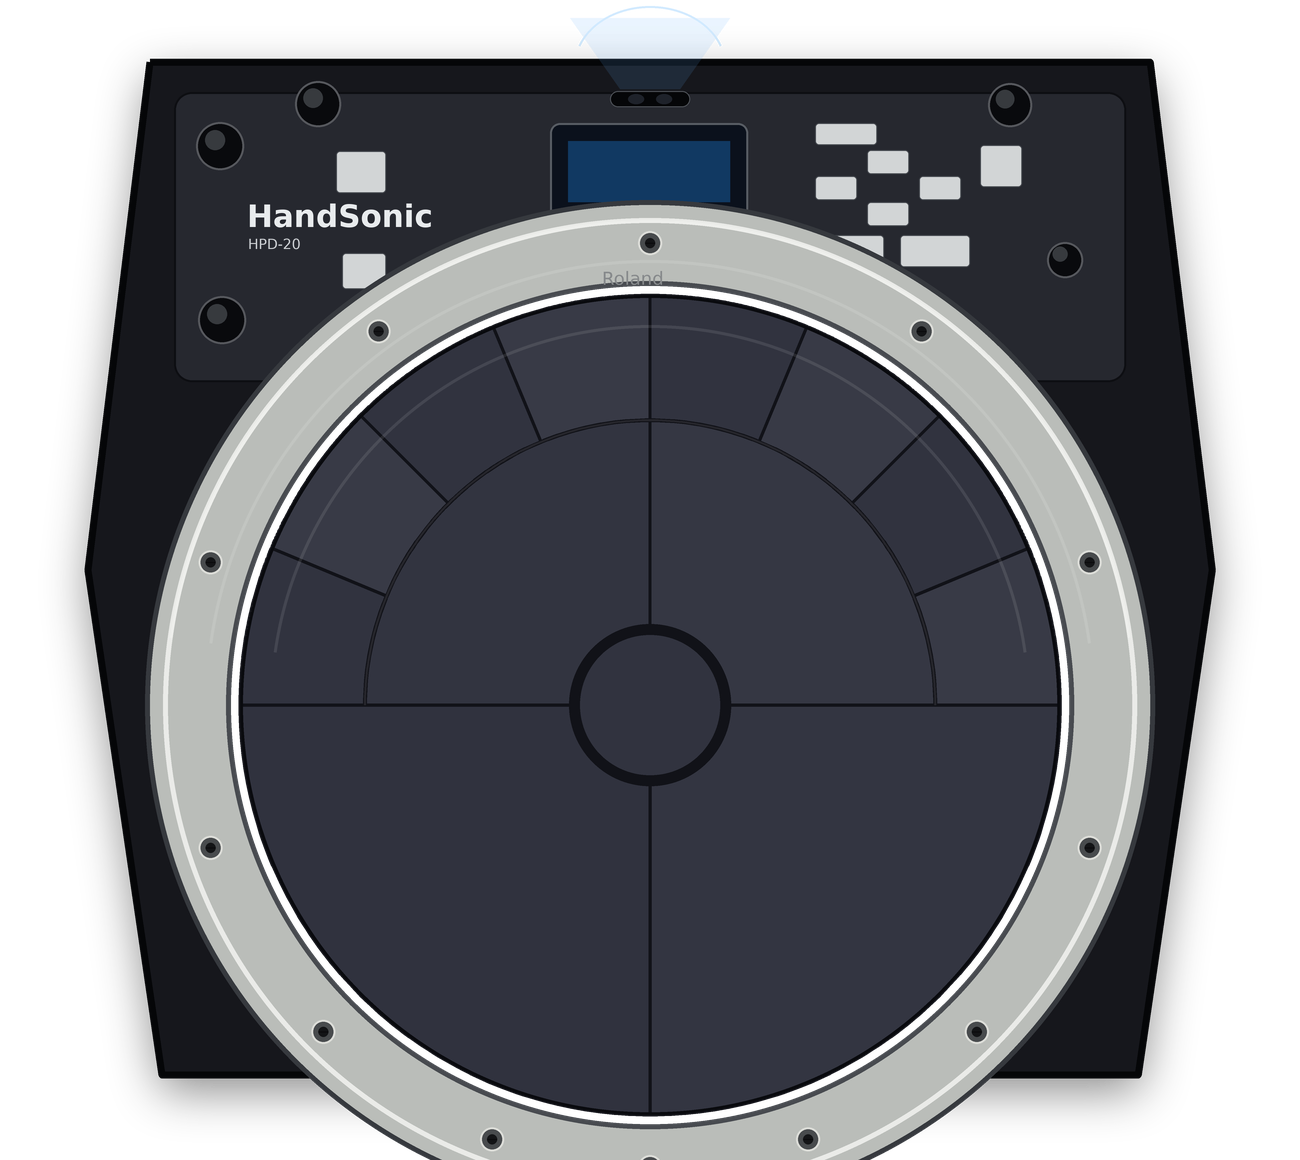
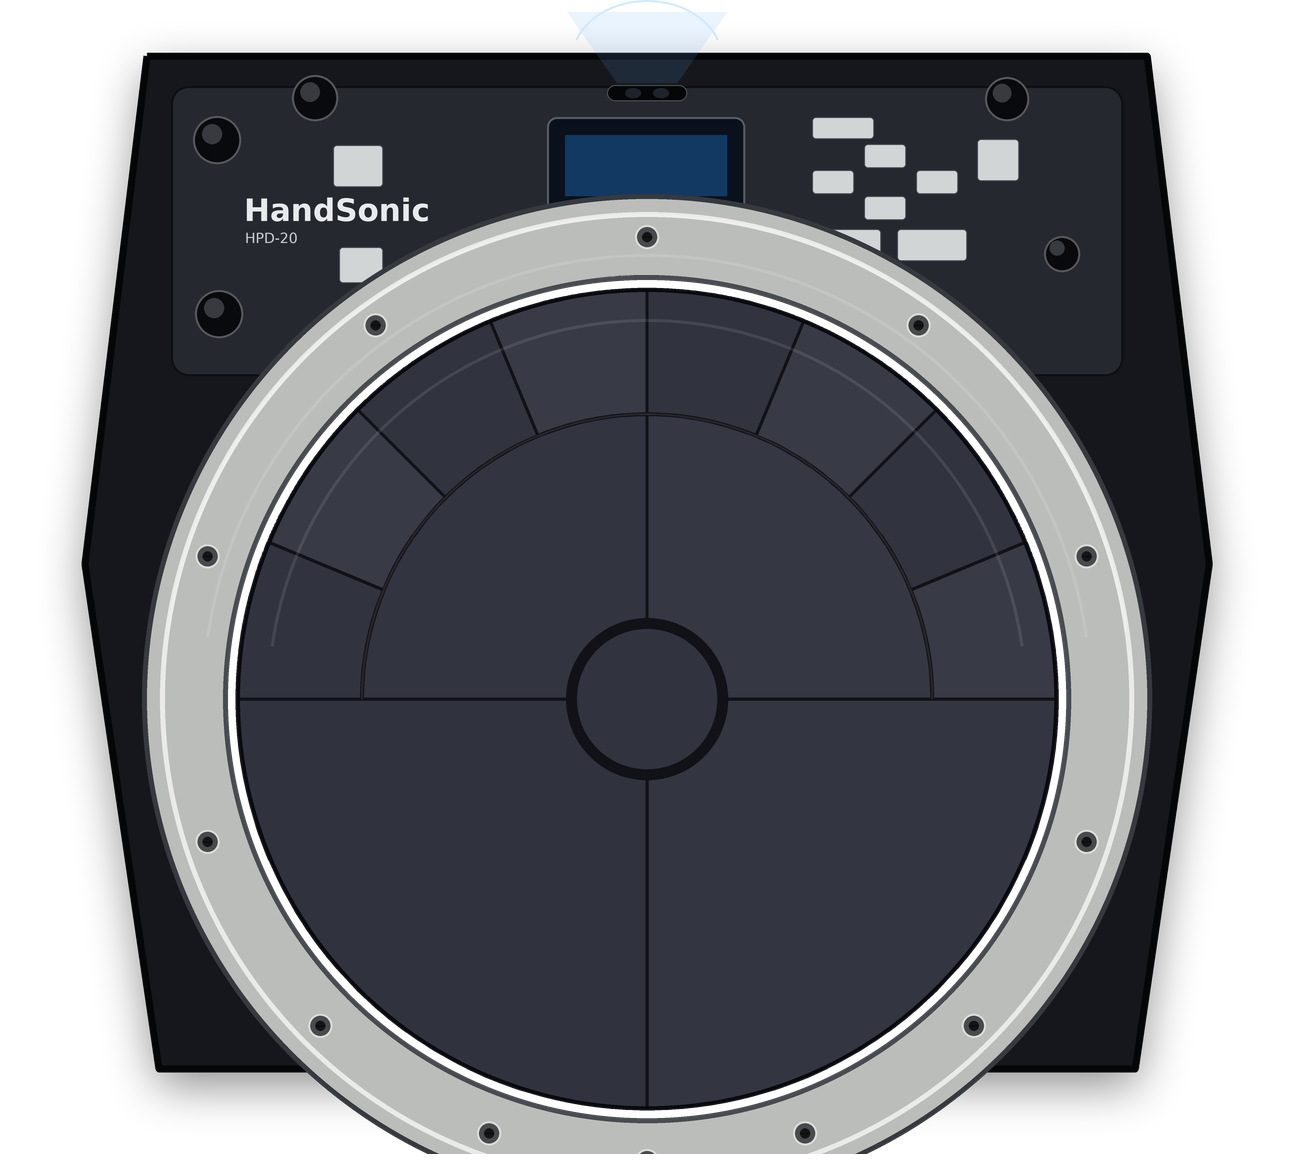
Pad-Geometrie an korrigiertes Artwork angepasst
Neue Hintergrundgrafik (ohne Pad-Beschriftung). Dial-Mitte, M/S-Grenze und
Spielflächen-Radius per Bilderkennung neu vermessen (Mitte ≈647,654;
R_INNER 337; R_OUTER 380; M5 72) statt der zu tiefen/zu großen alten Werte.
S-Pad-Beschriftung kleiner & einzeilig, da das S-Ring-Band schmaler ist.

diff --git a/app/src/ui/PadSurface.tsx b/app/src/ui/PadSurface.tsx
@@ -49,12 +49,16 @@ export function PadSurface({
           const sel = selectedPad === p.index;
           const cls = `zone ${sel ? "zone-sel" : ""}`;
           const { a, b, empty } = labelFor(p.index);
-          const aLines = nameLines(a);
-          const lines: { text: string; b?: boolean }[] = aLines.map((t) => ({
-            text: t,
-          }));
-          if (b) lines.push({ text: "＋ " + trunc(b), b: true });
-          const startDy = -((lines.length - 1) * 12);
+          const isS = p.index >= 5 && p.index <= 12; // small sub-pads => thin ring
+
+          // Small S-pads: one short, single-line label (band is narrow).
+          // Large M-pads: A name (wrapped) plus the B layer line.
+          const lines: { text: string; b?: boolean }[] = isS
+            ? [{ text: empty ? a : trunc(a, 11) }]
+            : nameLines(a).map((t) => ({ text: t }));
+          if (!isS && b) lines.push({ text: "＋ " + trunc(b), b: true });
+          const dyStep = isS ? 16 : 24;
+          const startDy = -((lines.length - 1) * (isS ? 8 : 12));
           return (
             <g
               key={p.index}
@@ -67,7 +71,7 @@ export function PadSurface({
                 <circle className={cls} cx={p.cx} cy={p.cy} r={p.r} />
               )}
               <text
-                className={`zone-label ${empty ? "zone-empty" : ""}`}
+                className={`zone-label ${isS ? "zone-label-s" : ""} ${empty ? "zone-empty" : ""}`}
                 x={p.labelX}
                 y={p.labelY}
                 textAnchor="middle"
@@ -76,7 +80,7 @@ export function PadSurface({
                   <tspan
                     key={i}
                     x={p.labelX}
-                    dy={i === 0 ? startDy : 24}
+                    dy={i === 0 ? startDy : dyStep}
                     className={ln.b ? "layer-b" : ""}
                   >
                     {ln.text}

diff --git a/app/src/ui/padLayout.ts b/app/src/ui/padLayout.ts
@@ -10,10 +10,12 @@
 export const VIEW_W = 1300;
 export const VIEW_H = 1160;
 
-const CENTER = { x: 650, y: 700 };
-const R_M5 = 66; // centre circle radius
-const R_INNER = 300; // outer edge of the M1-M4 quarter discs
-const R_OUTER = 418; // outer edge of the S ring
+// Measured from the device artwork (silver-rim + stroke detection):
+// dial centre ≈ (647, 654), playing-surface edge ≈ 380, M/S boundary ≈ 337.
+const CENTER = { x: 647, y: 654 };
+const R_M5 = 72; // centre circle radius
+const R_INNER = 337; // outer edge of the M1-M4 quarter discs / inner edge of S ring
+const R_OUTER = 380; // outer edge of the S ring (= playing-surface edge)
 
 function polar(r: number, deg: number): [number, number] {
   const a = (deg * Math.PI) / 180;

diff --git a/app/src/App.css b/app/src/App.css
@@ -120,6 +120,7 @@ input[type="text"], input:not([type]), .kit-filter, .kit-name-input, .kit-sub-in
   stroke-width: 4px;
 }
 .zone-label .layer-b { fill: #ffb877; font-size: 18px; font-weight: 500; }
+.zone-label-s { font-size: 15px; font-weight: 600; }
 .zone-empty { fill: #9aa3b4; font-weight: 700; opacity: .85; }
 
 .externals { width: min(620px, 100%); }